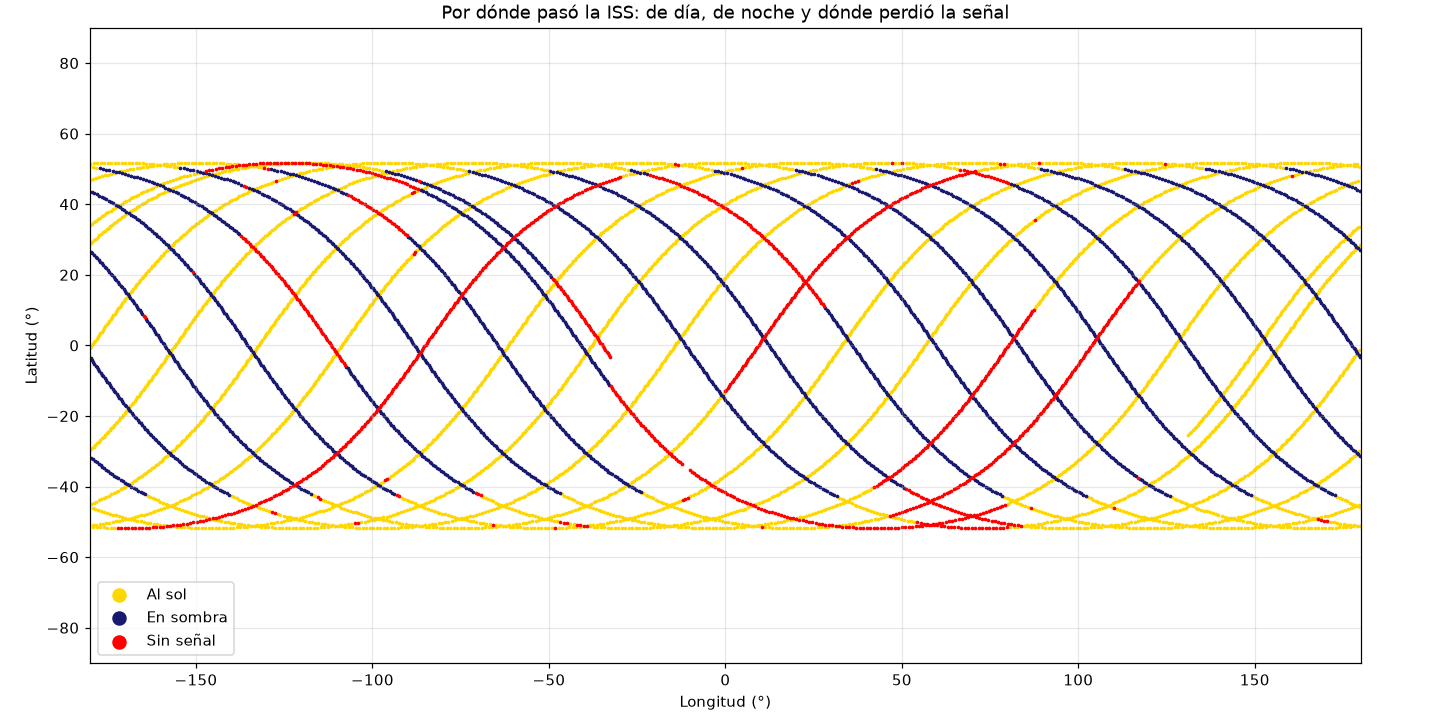
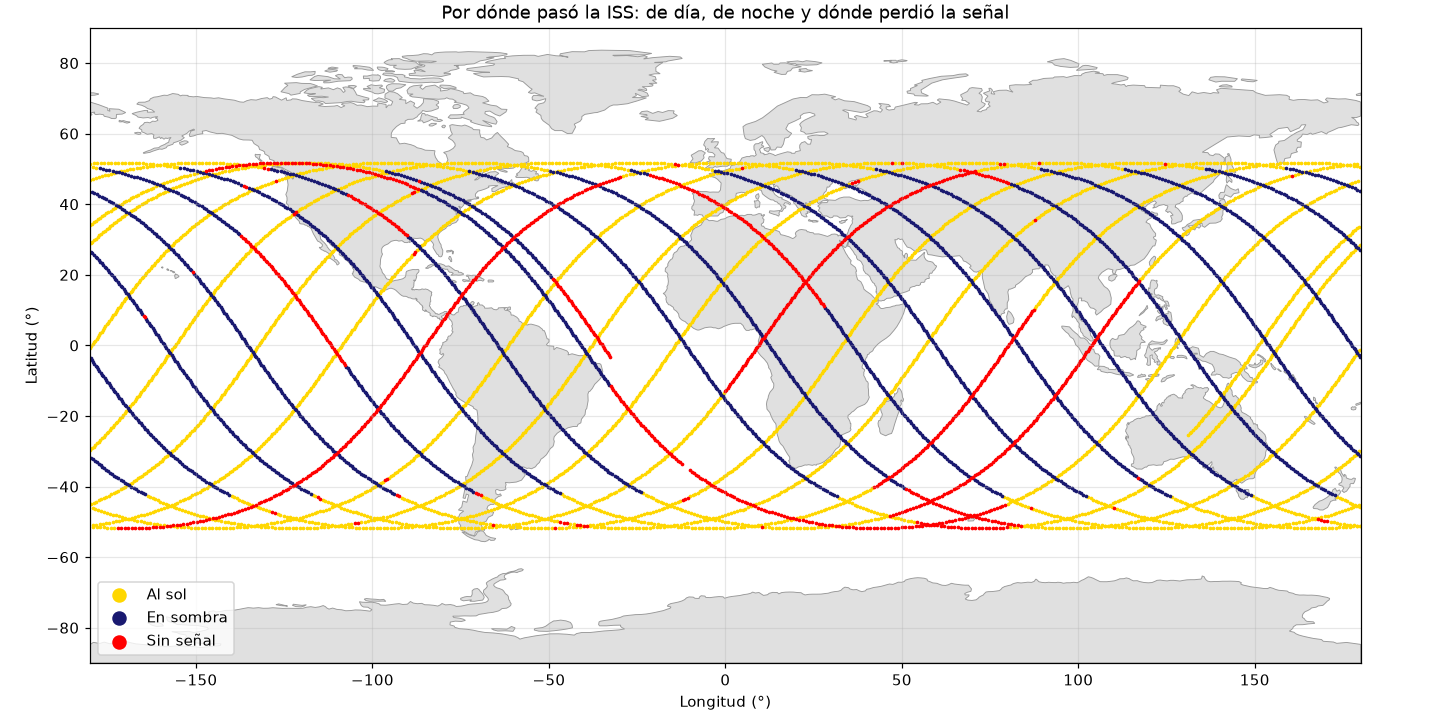
Agregar continentes al mapa de señal
Contornos de Natural Earth 1:110m (dominio público) en mapa/, dibujados
en el mapa del análisis y en las dos versiones de historias.

diff --git a/graficar.py b/graficar.py
@@ -29,6 +29,7 @@ Tip: con 1 fila por segundo, un día son ~86.400 filas. Si copias los CSV del
 servidor a tu PC (carpeta datos/), este script los lee todos juntos.
 """
 
+import json
 import sys
 from pathlib import Path
 
@@ -39,6 +40,10 @@ from sensores import SENSORES
 
 CARPETA_DATOS = Path(__file__).parent / "datos"
 CARPETA_GRAFICOS = Path(__file__).parent / "graficos"
+
+# Contornos de los continentes: Natural Earth 1:110m (dominio público,
+# https://www.naturalearthdata.com). Es un GeoJSON: polígonos de [lon, lat].
+ARCHIVO_CONTINENTES = Path(__file__).parent / "mapa" / "continentes_110m.geojson"
 MINUTOS_ALREDEDOR_DEL_ZOOM = 3
 
 
@@ -178,15 +183,26 @@ def figura_zoom_penumbra(df: pd.DataFrame) -> bool:
     return True
 
 
+def dibujar_continentes(eje, relleno: str = "0.88", borde: str = "0.6"):
+    """Dibuja los continentes de fondo (debajo de la traza de la ISS)."""
+    datos = json.loads(ARCHIVO_CONTINENTES.read_text(encoding="utf-8"))
+    for pais in datos["features"]:
+        # Un polígono GeoJSON = [contorno exterior, agujeros...]; dibujamos el exterior.
+        contorno = pais["geometry"]["coordinates"][0]
+        longitudes = [punto[0] for punto in contorno]
+        latitudes = [punto[1] for punto in contorno]
+        eje.fill(longitudes, latitudes, facecolor=relleno, edgecolor=borde, linewidth=0.6, zorder=0)
+
+
 def figura_mapa(df: pd.DataFrame):
     """
-    Traza de la ISS sobre la Tierra (longitud vs latitud). Sin mapa de fondo,
-    pero se adivinan los continentes por la forma de la órbita.
+    Traza de la ISS sobre la Tierra (longitud vs latitud), con los continentes de fondo.
     """
     # Con 86.400 puntos el gráfico se pone lento: tomamos 1 de cada 10 segundos.
     muestra = df.iloc[::10]
 
     fig, eje = plt.subplots(figsize=(13, 6.5), layout="constrained")
+    dibujar_continentes(eje)
     grupos = [
         ("Al sol", (muestra["estado_luz"] == "sol") & (muestra["con_senal"] == 1), "gold"),
         ("En sombra", (muestra["estado_luz"] != "sol") & (muestra["con_senal"] == 1), "midnightblue"),

diff --git a/historias_graficos.py b/historias_graficos.py
@@ -19,8 +19,8 @@ import numpy as np
 
 import historias_instagram as hi
 import medir_tierra
-from graficar import (CARPETA_DATOS, cargar_datos, columnas_que_terminan_en, etiqueta_corta,
-                      pintar_fondo_por_luz)
+from graficar import (CARPETA_DATOS, cargar_datos, columnas_que_terminan_en, dibujar_continentes,
+                      etiqueta_corta, pintar_fondo_por_luz)
 from posicion_iss import RADIO_TIERRA_KM, SeguidorISS
 
 CARPETA_SALIDA = Path(__file__).parent / "instagram" / "sin_texto"
@@ -183,6 +183,7 @@ def mapa(df):
     muestra = df.iloc[::10]  # 1 de cada 10 segundos basta para ver la traza
     fig = lienzo()
     eje = fig.add_axes([0.1, 0.27, 0.85, 0.36])
+    dibujar_continentes(eje, relleno="#3B4659", borde="#7A889E")
     grupos = [
         ("Al sol", (muestra["estado_luz"] == "sol") & (muestra["con_senal"] == 1), "gold"),
         ("En sombra", (muestra["estado_luz"] != "sol") & (muestra["con_senal"] == 1), "tab:blue"),

diff --git a/historias_instagram.py b/historias_instagram.py
@@ -25,7 +25,7 @@ import numpy as np
 from matplotlib.patches import Circle, Polygon
 
 import medir_tierra
-from graficar import CARPETA_DATOS, cargar_datos, columnas_que_terminan_en
+from graficar import CARPETA_DATOS, cargar_datos, columnas_que_terminan_en, dibujar_continentes
 from posicion_iss import RADIO_TIERRA_KM, SeguidorISS
 
 CARPETA_SALIDA = Path(__file__).parent / "instagram"
@@ -334,6 +334,7 @@ def historia_7_senal(df):
 
     muestra = df.iloc[::10]
     eje = fig.add_axes([0.04, 0.36, 0.92, 0.24])
+    dibujar_continentes(eje, relleno="#26306A", borde="#4A58A8")
     con = muestra[muestra["con_senal"] == 1]
     sin = muestra[muestra["con_senal"] == 0]
     eje.scatter(con["longitud"], con["latitud"], s=3, color=CIAN, alpha=0.6, lw=0)

diff --git a/README.md b/README.md
@@ -136,3 +136,4 @@ Usa ~25 MB por día (sin comprimir).
 - Telemetría: NASA *ISS Live* (servidor público Lightstreamer `push.lightstreamer.com`, adapter `ISSLIVE`).
 - Códigos de sensores: proyecto [ISS Mimic](https://github.com/ISS-Mimic/Mimic) (`Telemetry/ISS_Public_Telemetry.xlsx`).
 - Órbita: TLE de [CelesTrak](https://celestrak.org); efemérides JPL DE421 vía [Skyfield](https://rhodesmill.org/skyfield/).
+- Contornos de los continentes: [Natural Earth](https://www.naturalearthdata.com) 1:110m (dominio público), en `mapa/`.
